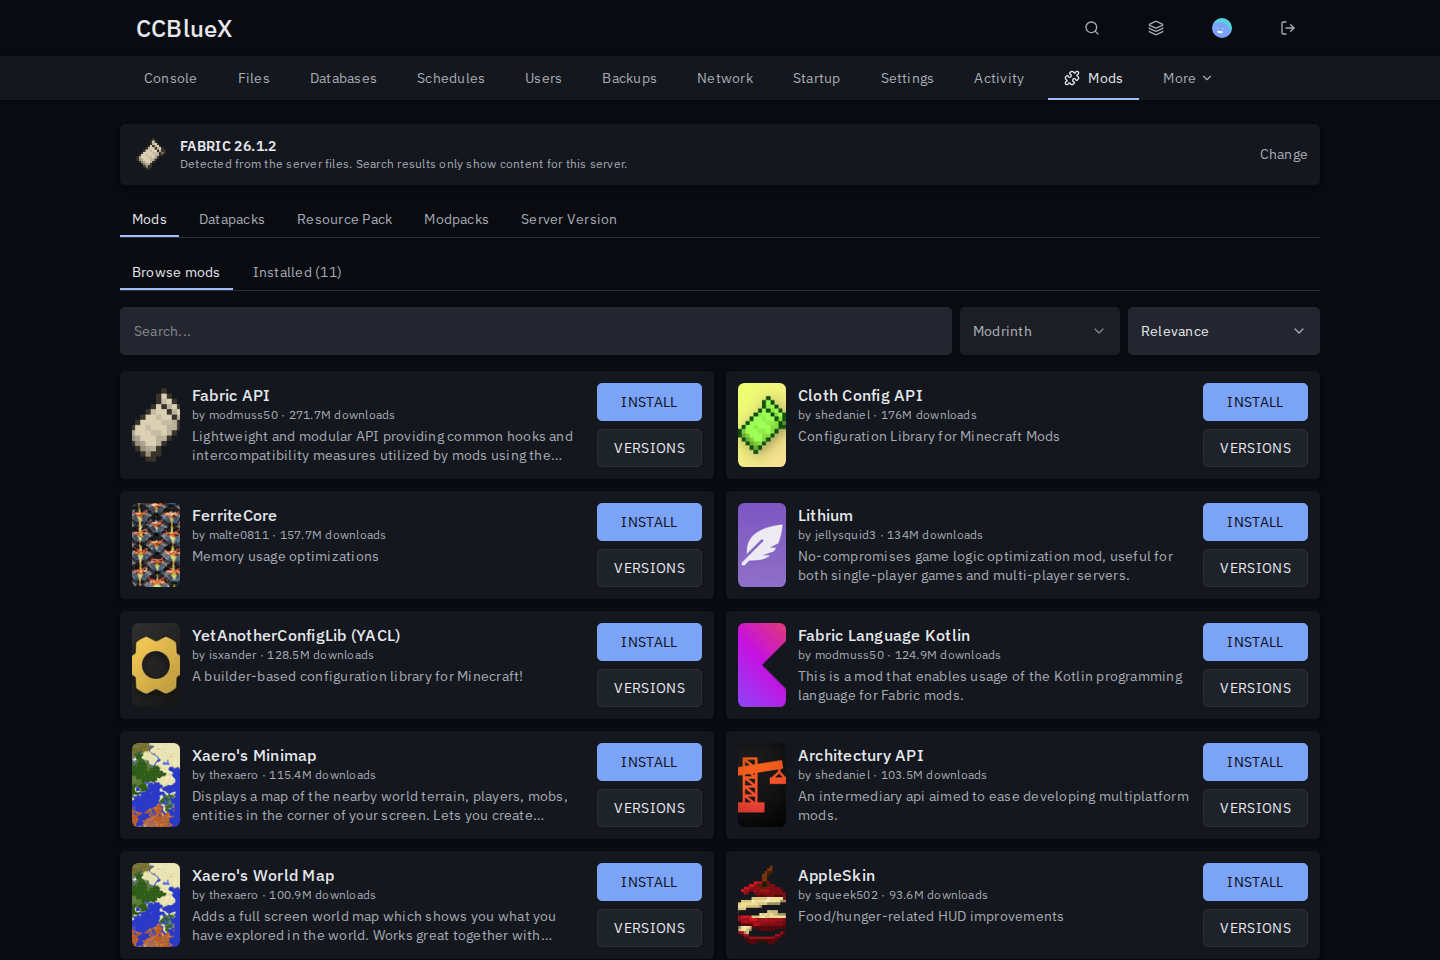
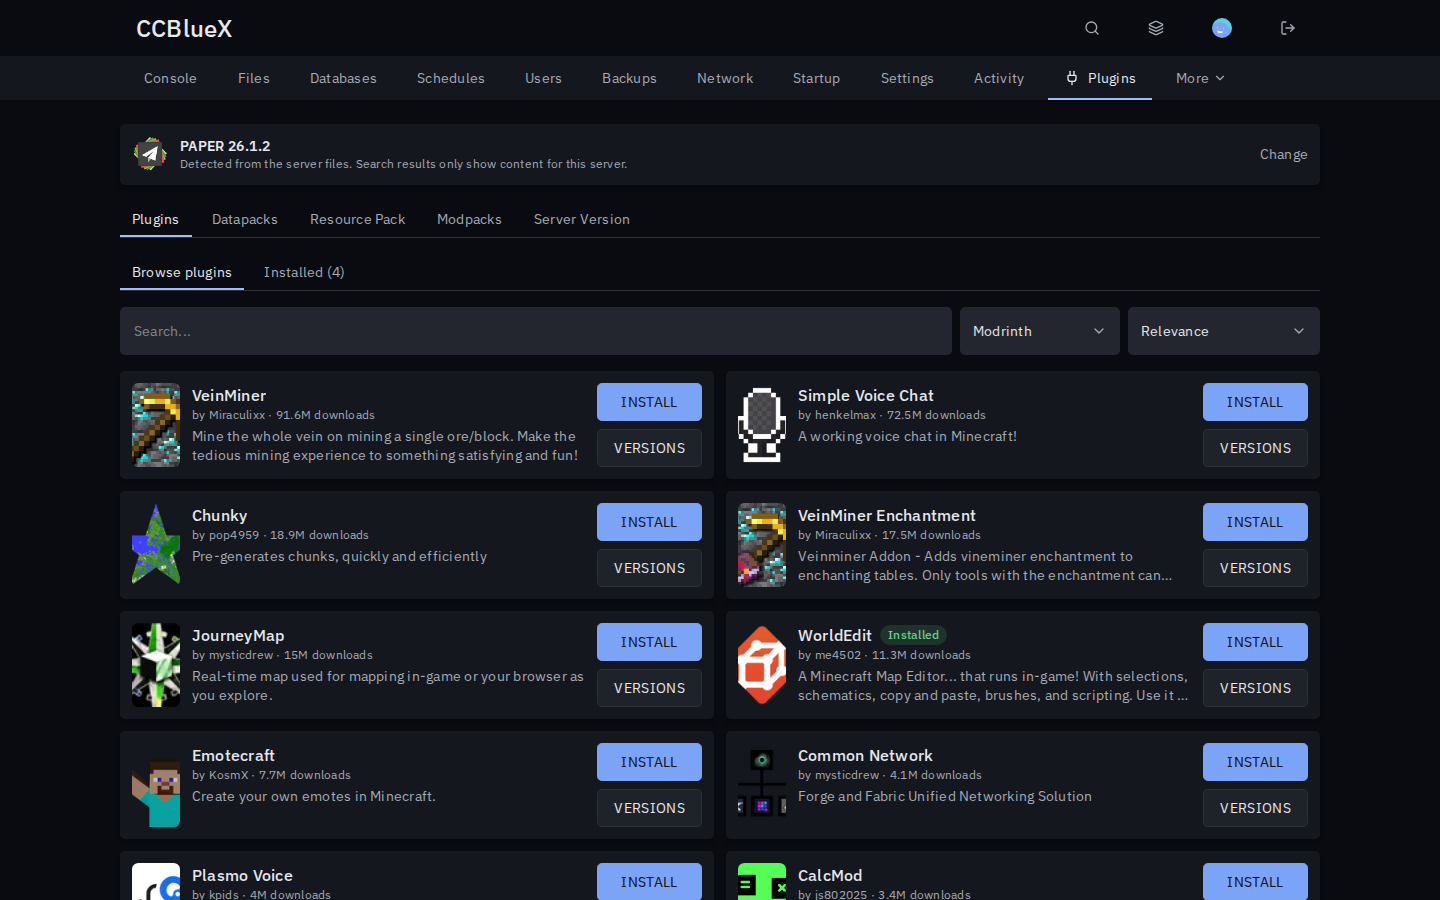
fix: follow redirects and track modpack files
Also adds cancelling installs and refreshes the screenshots.

diff --git a/src/client/content/InstalledList.tsx b/src/client/content/InstalledList.tsx
@@ -79,7 +79,7 @@ export default function InstalledList({ type }: { type: ContentType }) {
                 {canInstall && unknown > 0 && (
                     <Tooltip content='Look up files that were uploaded by hand, so they can be updated too.'>
                         <Button.Text size='small' isLoading={scanning.isPending} onClick={() => scanning.mutate()}>
-                            Recognise {unknown} files
+                            Recognise {unknown} {unknown === 1 ? 'file' : 'files'}
                         </Button.Text>
                     </Tooltip>
                 )}
